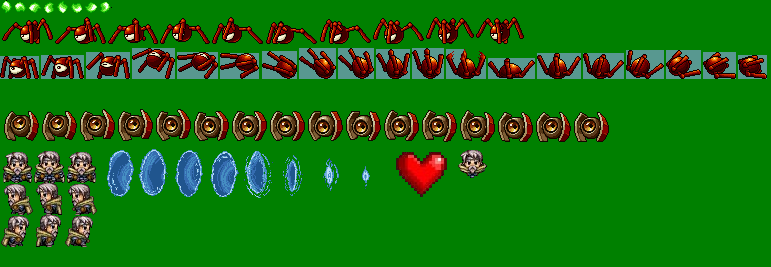
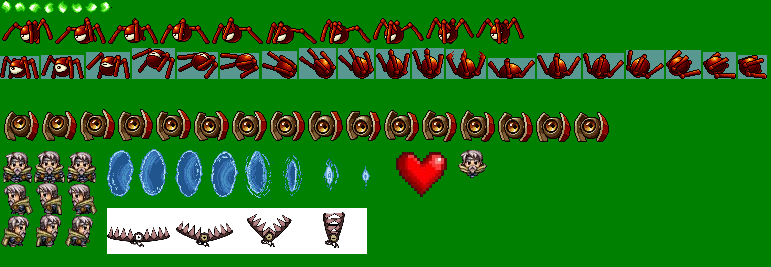
pause + text

Changed region(s): [[0.1245, 0.779, 0.4981, 0.9588]]

diff --git a/Monsters, portals and things/Player.cpp b/Monsters, portals and things/Player.cpp
@@ -5,18 +5,18 @@ void Player::Control(float time)
 	if (Keyboard::isKeyPressed(Keyboard::Left) || Keyboard::isKeyPressed(Keyboard::A))
 	{
 		state = left;
-		speed = float(0.2);
+		speed = 0.2f;
 	}
 
 	if (Keyboard::isKeyPressed(Keyboard::Right) || Keyboard::isKeyPressed(Keyboard::D))
 	{
 		state = right;
-		speed = float(0.2);
+		speed = 0.2f;
 	}
 	if (((Keyboard::isKeyPressed(Keyboard::Up) || Keyboard::isKeyPressed(Keyboard::W))) && (onGround))
 	{
 		state = jump;
-		dy = -float(0.7);
+		dy = -0.5f;
 		onGround = false;
 	}
 	if (Keyboard::isKeyPressed(Keyboard::E) && (onGround))
@@ -80,7 +80,7 @@ void Player::Update(float time, Vector2f pos, int portalH)
 			life = false;
 	}
 	if (!isMove) speed = 0;
-	dy += float(0.0015)*time;
+	dy += 0.0015f*time;
 	teleportY = CooordinateYPortal(obj, pos, portalH);
 	if (teleportY != -1)
 	{
@@ -94,16 +94,16 @@ void Player::Update(float time, Vector2f pos, int portalH)
 	}
 	if (isInvulnerability)
 	{
+		invulnerabilityTimer += time;
 		if (currentFrame <= 1)
 		{
 			sprite.setColor(Color::Color(255, 255, 255, 100));
-			countInvulnerability++;
 		}
 		else
 			sprite.setColor(Color::Color(255, 255, 255, 255));
-		if (countInvulnerability >= durationInvulnerability)
+		if (invulnerabilityTimer >= durationInvulnerability)
 		{
-			countInvulnerability = 0;
+			invulnerabilityTimer = 0;
 			isInvulnerability = false;
 		}
 	}
@@ -172,4 +172,9 @@ RectangleShape Player::CreateAim(Vector2f pos)
 		line.setPosition(x + float(w / 2), y + float(h / 3));
 	}
 	return line;
+}
+
+Vector2f Player::GetPos()
+{
+	return Vector2f(x, y);
 }

diff --git a/Monsters, portals and things/game.h b/Monsters, portals and things/game.h
@@ -24,10 +24,12 @@ struct Graphics
 {
 	Statistic statistic;
 	Texture allTexture;
+	Text text;
 };
 
 struct Game
 {
+	bool isPause = true;
 	int portalH = 50;
 	int portalW = 36;
 	Graphics graphic;
